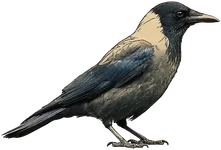
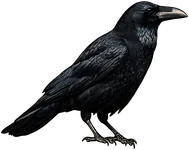
fix: 屋簷烏鴉換成日本常見的大嘴烏鴉，輪替照 trip.yaml 順序
- 方向：原本生成的是灰背的冠小嘴烏鴉，不是日本常見的鳥；桌機寬度只放得下前 7 組，舊的輪替公式讓烏鴉在桌機看不到
- 改動：Qwen-Image 2.1 重生全黑大嘴烏鴉（寫實 → 浮世繪＋透明背景）；wall.ts 改照 art.critters 的順序輪替，清單重排讓前 7 組含貓、麻雀、烏鴉、鴿子
- 狀態：完成

Claude-Session: https://claude.ai/code/session_01Lk7NUv3hrxQigKjZHa2QCp

diff --git a/src/scripts/wall.ts b/src/scripts/wall.ts
@@ -106,7 +106,7 @@ function fit() {
 }
 
 /* 屋簷上的小動物：每隔一個視窗寬放一組，牆面模式滑到哪一屏都看得到一組、同一屏最多一組。
-   第一組放在天守閣右邊；組合依序輪替，部分左右翻轉增加變化。視窗大小改變時重排 */
+   第一組放在天守閣右邊；組合照 trip.yaml 的順序輪替，部分左右翻轉增加變化。視窗大小改變時重排 */
 function placeCritters() {
   const box = document.getElementById('critters');
   if (!box) return;
@@ -120,7 +120,7 @@ function placeCritters() {
   const castle = wall.querySelector<HTMLElement>('.castle');
   let x = castle ? castle.getBoundingClientRect().right - wl + 24 : W * 0.4;
   for (let k = 0; x < total - 160; k++, x += W) {
-    const g = groups[(k * 7 + 3) % groups.length];
+    const g = groups[k % groups.length];
     const img = document.createElement('img');
     img.src = g.src;
     img.alt = '';
